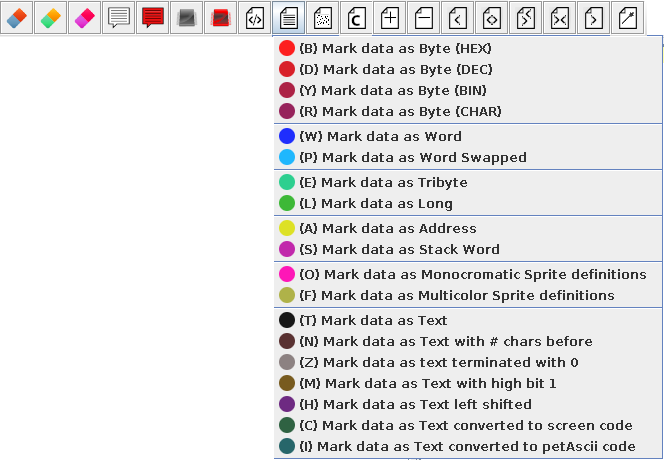
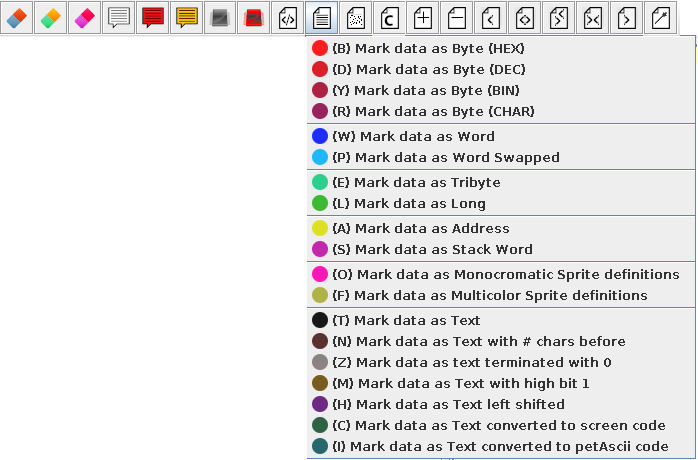
Add automatic blank line insertion in user block comment button

Changed region(s): [[0.0, 0.0, 0.9639, 1.0], [0.994, 0.0609, 1.0, 1.0]]

diff --git a/src/sw_emulator/swing/help/memory.html b/src/sw_emulator/swing/help/memory.html
@@ -61,6 +61,9 @@
   </ul>
   <p align="center"><img src="./memory19.png"></p> 
    
+   <h2>add a space in user block comment</h2>
+   <p>This add the special space followed by carriage return chars that make the block comment to leave a blank line<p>
+
    <h2>Add user label</h2> 
    <p>The user can add label to a memory location in data or code area and if there was a disassembly automatic generated one in that position, the user's one will be used instead of the other.<br>
    You cannot insert label with less than 5 chars and a option let you specify the max one to use (as some assembler has a limit in his length). <br>

diff --git a/src/sw_emulator/swing/JDisassemblerFrame.java b/src/sw_emulator/swing/JDisassemblerFrame.java
@@ -731,6 +731,7 @@ public class JDisassemblerFrame extends javax.swing.JFrame implements userAction
     jButtonClearDLabel = new javax.swing.JButton();
     jButtonAddUserComm = new javax.swing.JButton();
     jButtonAddUserBlock = new javax.swing.JButton();
+    jButtonAddUserBlockAuto = new javax.swing.JButton();
     jButtonAddUserLabel = new javax.swing.JButton();
     jButtonAddUserLabelOp = new javax.swing.JButton();
     jButtonMarkCode = new javax.swing.JButton();
@@ -896,6 +897,7 @@ public class JDisassemblerFrame extends javax.swing.JFrame implements userAction
     jSeparator4 = new javax.swing.JPopupMenu.Separator();
     jMenuItemAddComment = new javax.swing.JMenuItem();
     jMenuItemAddBlock = new javax.swing.JMenuItem();
+    jMenuItemAddBlockAuto = new javax.swing.JMenuItem();
     jMenuItemUserLabel = new javax.swing.JMenuItem();
     jMenuItemUserLabelOp = new javax.swing.JMenuItem();
     jSeparator3 = new javax.swing.JPopupMenu.Separator();
@@ -2267,6 +2269,18 @@ public class JDisassemblerFrame extends javax.swing.JFrame implements userAction
     });
     jToolBarMemory.add(jButtonAddUserBlock);
 
+    jButtonAddUserBlockAuto.setIcon(new javax.swing.ImageIcon(getClass().getResource("/sw_emulator/swing/icons/blockauto.png"))); // NOI18N
+    jButtonAddUserBlockAuto.setToolTipText("Add a space in block user comment");
+    jButtonAddUserBlockAuto.setFocusable(false);
+    jButtonAddUserBlockAuto.setHorizontalTextPosition(javax.swing.SwingConstants.CENTER);
+    jButtonAddUserBlockAuto.setVerticalTextPosition(javax.swing.SwingConstants.BOTTOM);
+    jButtonAddUserBlockAuto.addActionListener(new java.awt.event.ActionListener() {
+      public void actionPerformed(java.awt.event.ActionEvent evt) {
+        jButtonAddUserBlockAutoActionPerformed(evt);
+      }
+    });
+    jToolBarMemory.add(jButtonAddUserBlockAuto);
+
     jButtonAddUserLabel.setIcon(new javax.swing.ImageIcon(getClass().getResource("/sw_emulator/swing/icons/mem2.png"))); // NOI18N
     jButtonAddUserLabel.setToolTipText("Add user label");
     jButtonAddUserLabel.setFocusable(false);
@@ -3220,6 +3234,17 @@ public class JDisassemblerFrame extends javax.swing.JFrame implements userAction
     }
   });
   jMenuMemory.add(jMenuItemAddBlock);
+
+  jMenuItemAddBlockAuto.setAccelerator(javax.swing.KeyStroke.getKeyStroke(java.awt.event.KeyEvent.VK_SEMICOLON, java.awt.event.InputEvent.SHIFT_DOWN_MASK | java.awt.event.InputEvent.CTRL_DOWN_MASK));
+  jMenuItemAddBlockAuto.setIcon(new javax.swing.ImageIcon(getClass().getResource("/sw_emulator/swing/icons/mini/blockauto.png"))); // NOI18N
+  jMenuItemAddBlockAuto.setMnemonic('b');
+  jMenuItemAddBlockAuto.setText("Add a space in user block comment");
+  jMenuItemAddBlockAuto.addActionListener(new java.awt.event.ActionListener() {
+    public void actionPerformed(java.awt.event.ActionEvent evt) {
+      jMenuItemAddBlockAutoActionPerformed(evt);
+    }
+  });
+  jMenuMemory.add(jMenuItemAddBlockAuto);
 
   jMenuItemUserLabel.setAccelerator(javax.swing.KeyStroke.getKeyStroke(java.awt.event.KeyEvent.VK_L, java.awt.event.InputEvent.CTRL_DOWN_MASK));
   jMenuItemUserLabel.setIcon(new javax.swing.ImageIcon(getClass().getResource("/sw_emulator/swing/icons/mini/mem2.png"))); // NOI18N
@@ -6100,6 +6125,14 @@ public class JDisassemblerFrame extends javax.swing.JFrame implements userAction
     asmTextAreaSourceCaretUpdate(evt);
   }//GEN-LAST:event_rSyntaxTextAreaSourceCaretUpdate
 
+  private void jButtonAddUserBlockAutoActionPerformed(java.awt.event.ActionEvent evt) {//GEN-FIRST:event_jButtonAddUserBlockAutoActionPerformed
+    execute(MEM_ADDBLOCKAUTO);
+  }//GEN-LAST:event_jButtonAddUserBlockAutoActionPerformed
+
+  private void jMenuItemAddBlockAutoActionPerformed(java.awt.event.ActionEvent evt) {//GEN-FIRST:event_jMenuItemAddBlockAutoActionPerformed
+      execute(MEM_ADDBLOCKAUTO);
+  }//GEN-LAST:event_jMenuItemAddBlockAutoActionPerformed
+
     /**
      * @param args the command line arguments
      */
@@ -6141,6 +6174,7 @@ public class JDisassemblerFrame extends javax.swing.JFrame implements userAction
   // Variables declaration - do not modify//GEN-BEGIN:variables
   private sw_emulator.swing.HeapView heapView;
   private javax.swing.JButton jButtonAddUserBlock;
+  private javax.swing.JButton jButtonAddUserBlockAuto;
   private javax.swing.JButton jButtonAddUserComm;
   private javax.swing.JButton jButtonAddUserLabel;
   private javax.swing.JButton jButtonAddUserLabelOp;
@@ -6192,6 +6226,7 @@ public class JDisassemblerFrame extends javax.swing.JFrame implements userAction
   private javax.swing.JMenuItem jMenuItem3;
   private javax.swing.JMenuItem jMenuItemAbout;
   private javax.swing.JMenuItem jMenuItemAddBlock;
+  private javax.swing.JMenuItem jMenuItemAddBlockAuto;
   private javax.swing.JMenuItem jMenuItemAddComment;
   private javax.swing.JMenuItem jMenuItemAddress;
   private javax.swing.JMenuItem jMenuItemAddress1;
@@ -6728,6 +6763,10 @@ public class JDisassemblerFrame extends javax.swing.JFrame implements userAction
          addBlock();
          if (option.forceCompilation) disassembly(true);
          break;
+       case MEM_ADDBLOCKAUTO:
+         addBlockAuto();
+         if (option.forceCompilation) disassembly(true);
+         break;         
        case MEM_CLEARDLABEL:
          clearDLabel();  
          if (option.forceCompilation) disassembly(true);
@@ -8348,6 +8387,19 @@ public class JDisassemblerFrame extends javax.swing.JFrame implements userAction
       dataTableModelMemory.fireTableDataChanged();  
       jTableMemory.setRowSelectionInterval(row, row); 
     }       
+  }
+  
+  /**
+   * Add a space in user block for comment
+   */
+  private void addBlockAuto() {
+    int row=jTableMemory.getSelectedRow();
+    
+    if (row<0) return;    
+    MemoryDasm mem= project.memory[row];
+    
+    if (mem.userBlockComment==null || "".equals(mem.userBlockComment)) mem.userBlockComment=" \n";
+    else mem.userBlockComment+=" \n";
   }
 
   /**

diff --git a/src/sw_emulator/swing/main/userAction.java b/src/sw_emulator/swing/main/userAction.java
@@ -458,6 +458,9 @@ public interface userAction {
   /** Export source as AS format */
   public static final int SOURCE_AS = 144;
   
+  /** Memory add a space in user block comment */
+  public static final int MEM_ADDBLOCKAUTO = 145;
+  
   /**
    * Execute the passed user action
    * 
